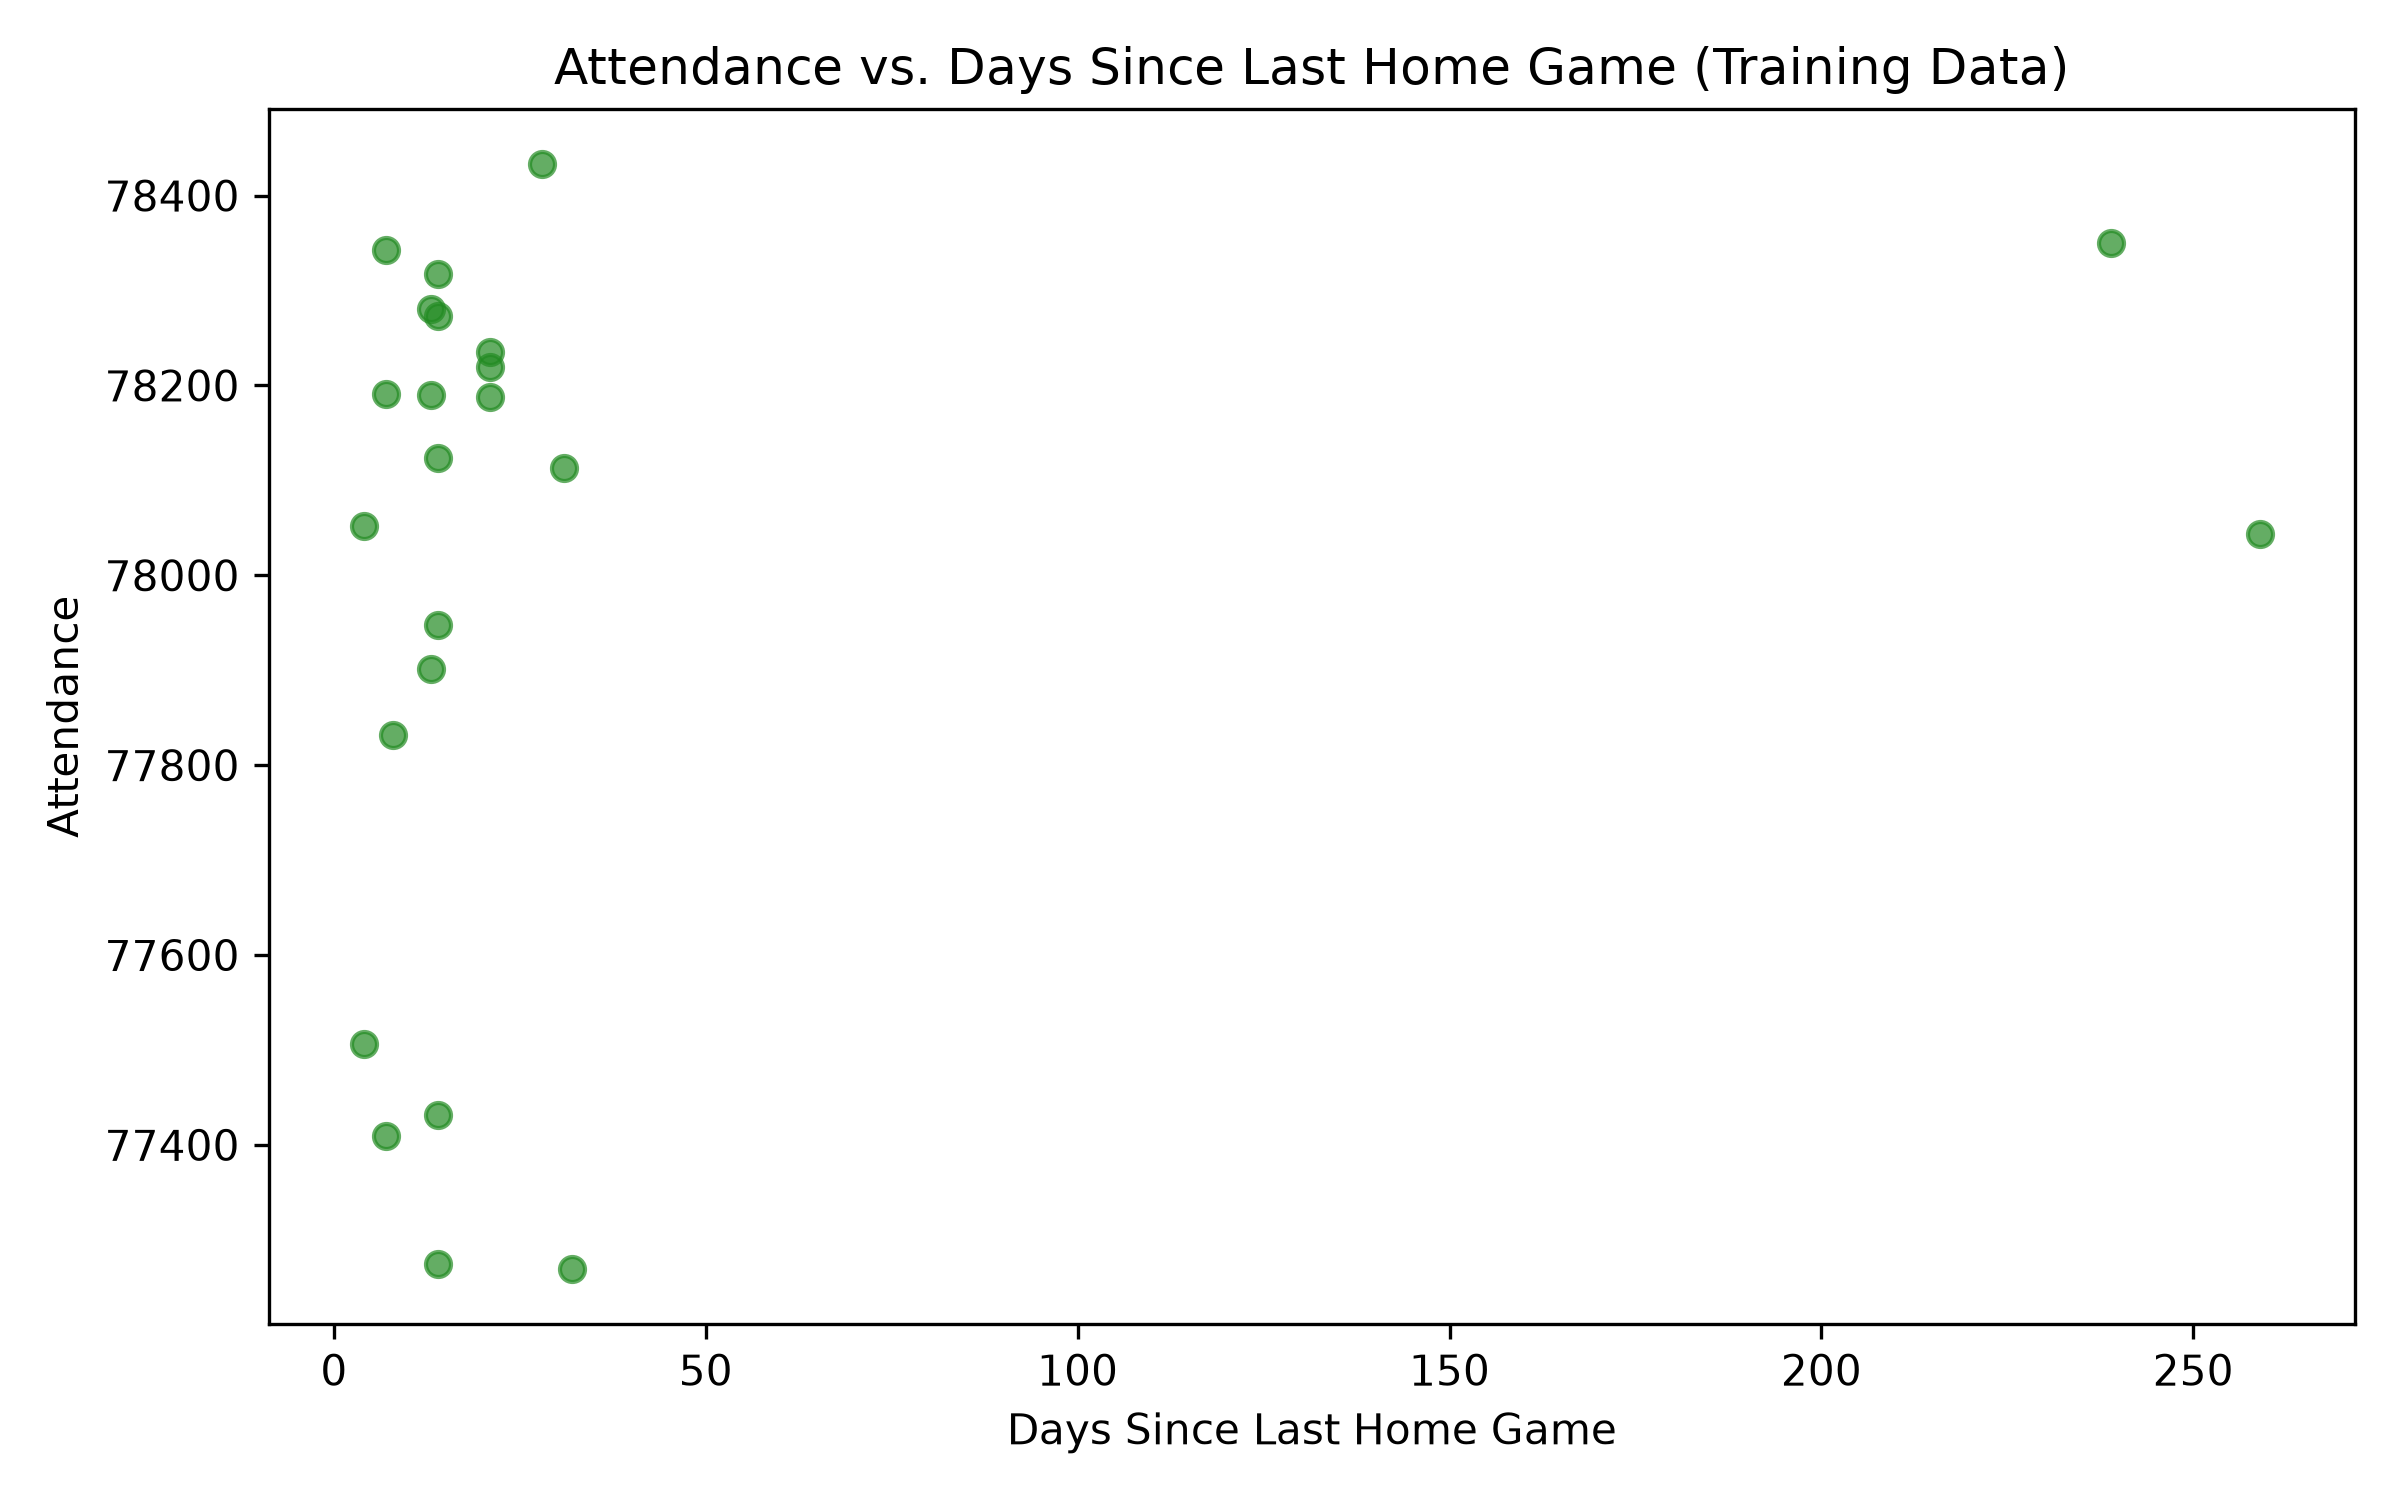
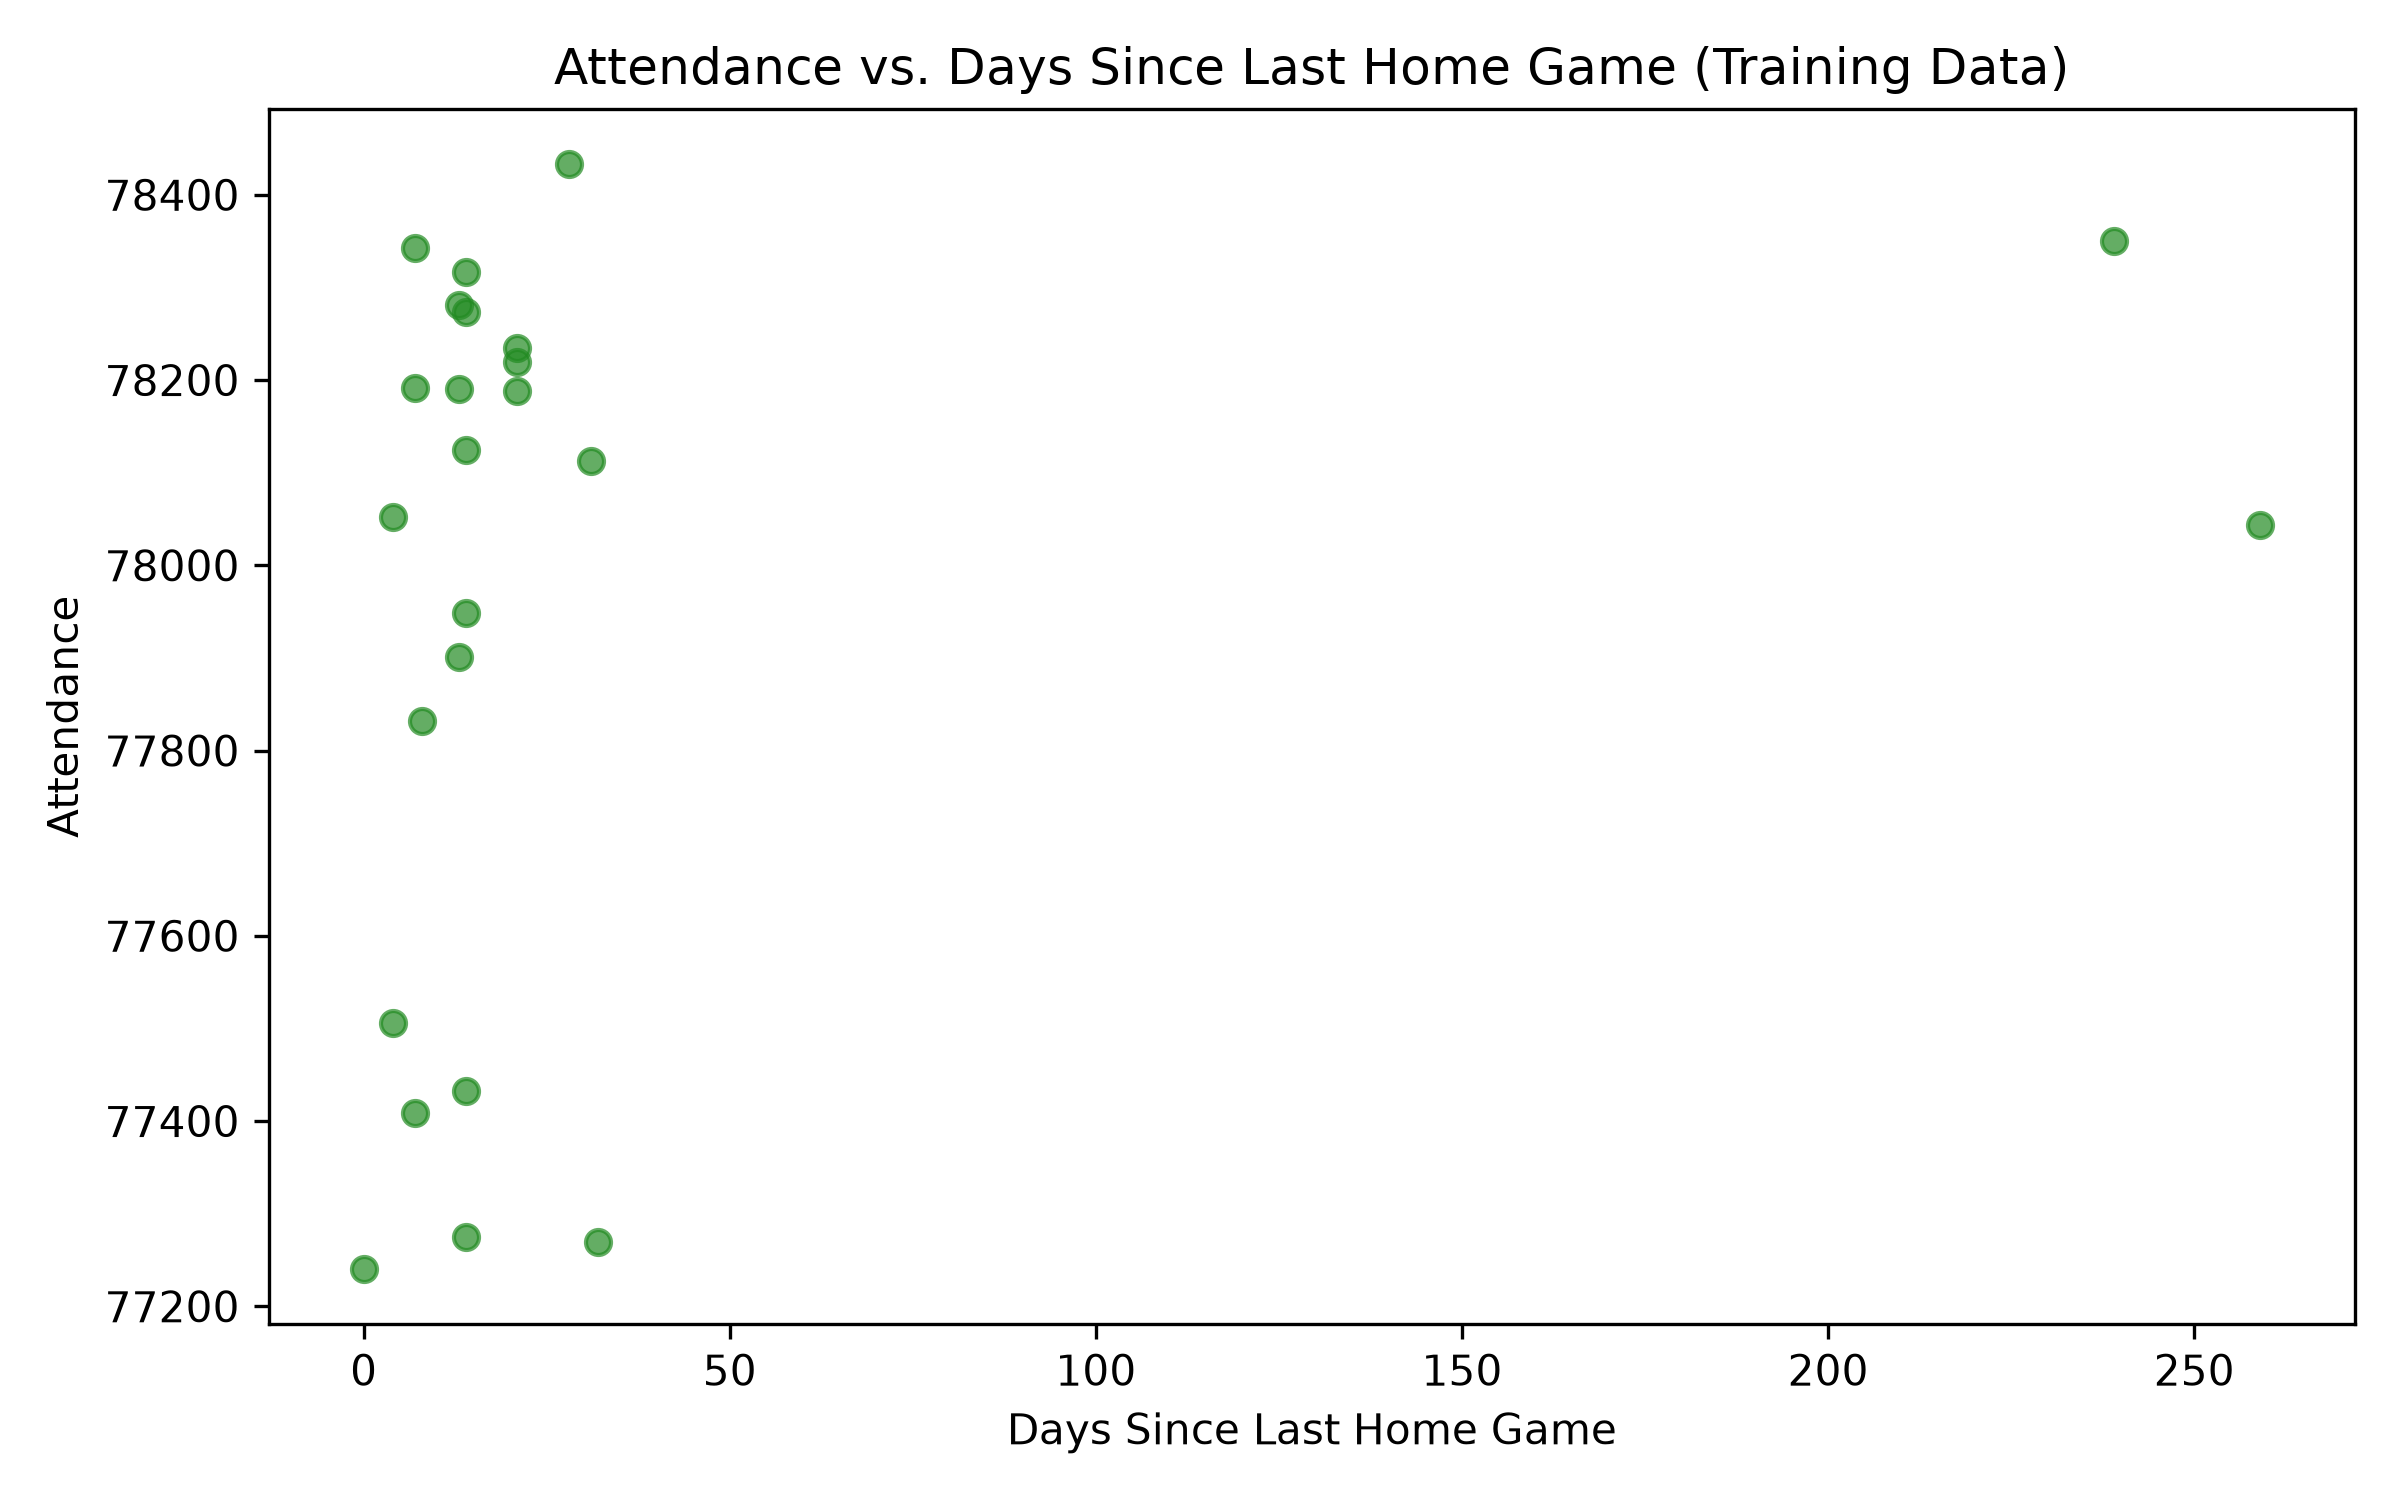
updated transform.py to filter on stadium rather than home team, changed decision on how to handle missing data

diff --git a/etl/transform.py b/etl/transform.py
@@ -29,6 +29,15 @@ def read_yearly_files(folder, pattern, required=None):
 
 # Combine yearly files into one dataset per source, then read hourly weather.
 games = read_yearly_files(RAW_DIR, "games_*.csv")
+
+# Keep only Packers games played at Lambeau Field. This excludes neutral-site
+# games such as the London game before stadium is removed from the dataset.
+games["stadium"] = games["stadium"].astype("string").str.strip()
+is_home = games["stadium"].eq("Lambeau Field")
+is_away = games["stadium"].ne("Lambeau Field")
+print(f"Kept {int(is_home.sum())} and excluded {int(is_away.sum())} Packers away games.")
+games = games.loc[is_home].copy()
+
 # Dropping unwanted columns from games
 games = games.drop(columns=['gametime', 'total_line', 'div_game', 'spread_line', 'boxscore_url', 'roof', 'stadium', 'surface'])
 
@@ -133,13 +142,8 @@ wins_before = outcomes.groupby("season")["win_credit"].cumsum() - outcomes["win_
 games_before = outcomes.groupby("season")["completed"].cumsum() - outcomes["completed"]
 outcomes["win_pct_before_game"] = wins_before / games_before.replace(0, float("nan"))
 
-is_home = games["home_team_id"].eq("GB")
-is_away = games["opponent_id"].eq("GB")
-print(f"Kept {int(is_home.sum())} and excluded {int(is_away.sum())} Packers away games.")
-
-#Filter out all games that are not Packers home games.
-games = games[games["home_team_id"] == "GB"]
-home_games = games.loc[is_home].copy()
+# The stadium filter above has already limited this dataset to Packers home games.
+home_games = games.copy()
 outcome_columns = ["season", "date_id", "opponent_id", "Day", "kickoff_utc", "win_pct_before_game"]
 home_games = home_games.merge(
     outcomes[outcome_columns], on=["season", "date_id", "opponent_id"], how="left",
@@ -224,6 +228,10 @@ print("Missing percentage for dim_team:\n", missing_pct_team)
 print("Missing percentage for fact_game:\n", missing_pct_game)
 print("Missing percentage for fact_weather:\n", missing_pct_weather)
 print("Missing percentage for ml_feature:\n", missing_pct_ml_feature)
+
+# Fill missing attendance with actual attendance from the same game: 79,132
+ml_feature["attendance"] = ml_feature["attendance"].fillna(79132)
+fact_game["attendance"] = fact_game["attendance"].fillna(79132)
 
 # Fill missing win_pct_before_game and days since last home game with 0
 ml_feature["win_pct_before_game"] = ml_feature["win_pct_before_game"].fillna(0)

diff --git a/docs/missing_data.md b/docs/missing_data.md
@@ -1,6 +1,6 @@
 | Table | Column | % missing | Decision | Why |
 | :---- | :---- | :--------- | :-- | :------- |
-| fact_game | attendance | 2.32% | Leave as NULL; retain the row | Attendance is missing for Divisional game. An overall median may not represent playoff attendance accurately. Keep the remaining game information; no rows are dropped.
-| ml_feature | attendance | 2.32% | Leave as NULL; retain the row | Attendance is missing for Divisional game. An overall median may not represent playoff attendance accurately. Keep the remaining game information; no rows are dropped.
-| ml_feature | days_since_last_game | 2.32% | Fill with 0 | The first game is null as there is no previous date to calculate from |
-| ml_feature | win_pct_before_game | 2.32% | Fill with 0 | First game of 2025 season, no prevoius game to calculate from |
+| fact_game | attendance | 2.38% | Fill with researched value | Attendance is missing for Divisional game as dataset only included regular season attendance. Research shows that the attendance was 79,132 |
+| ml_feature | attendance | 2.38% | Fill with researched value | Attendance is missing for Divisional game as dataset only included regular season attendance. Research shows that the attendance was 79,132 |
+| ml_feature | days_since_last_game | 2.38% | Fill with 0 | The first game is null as there is no previous date to calculate from |
+| ml_feature | win_pct_before_game | 2.38% | Fill with 0 | First game of 2025 season, no prevoius game to calculate from |
